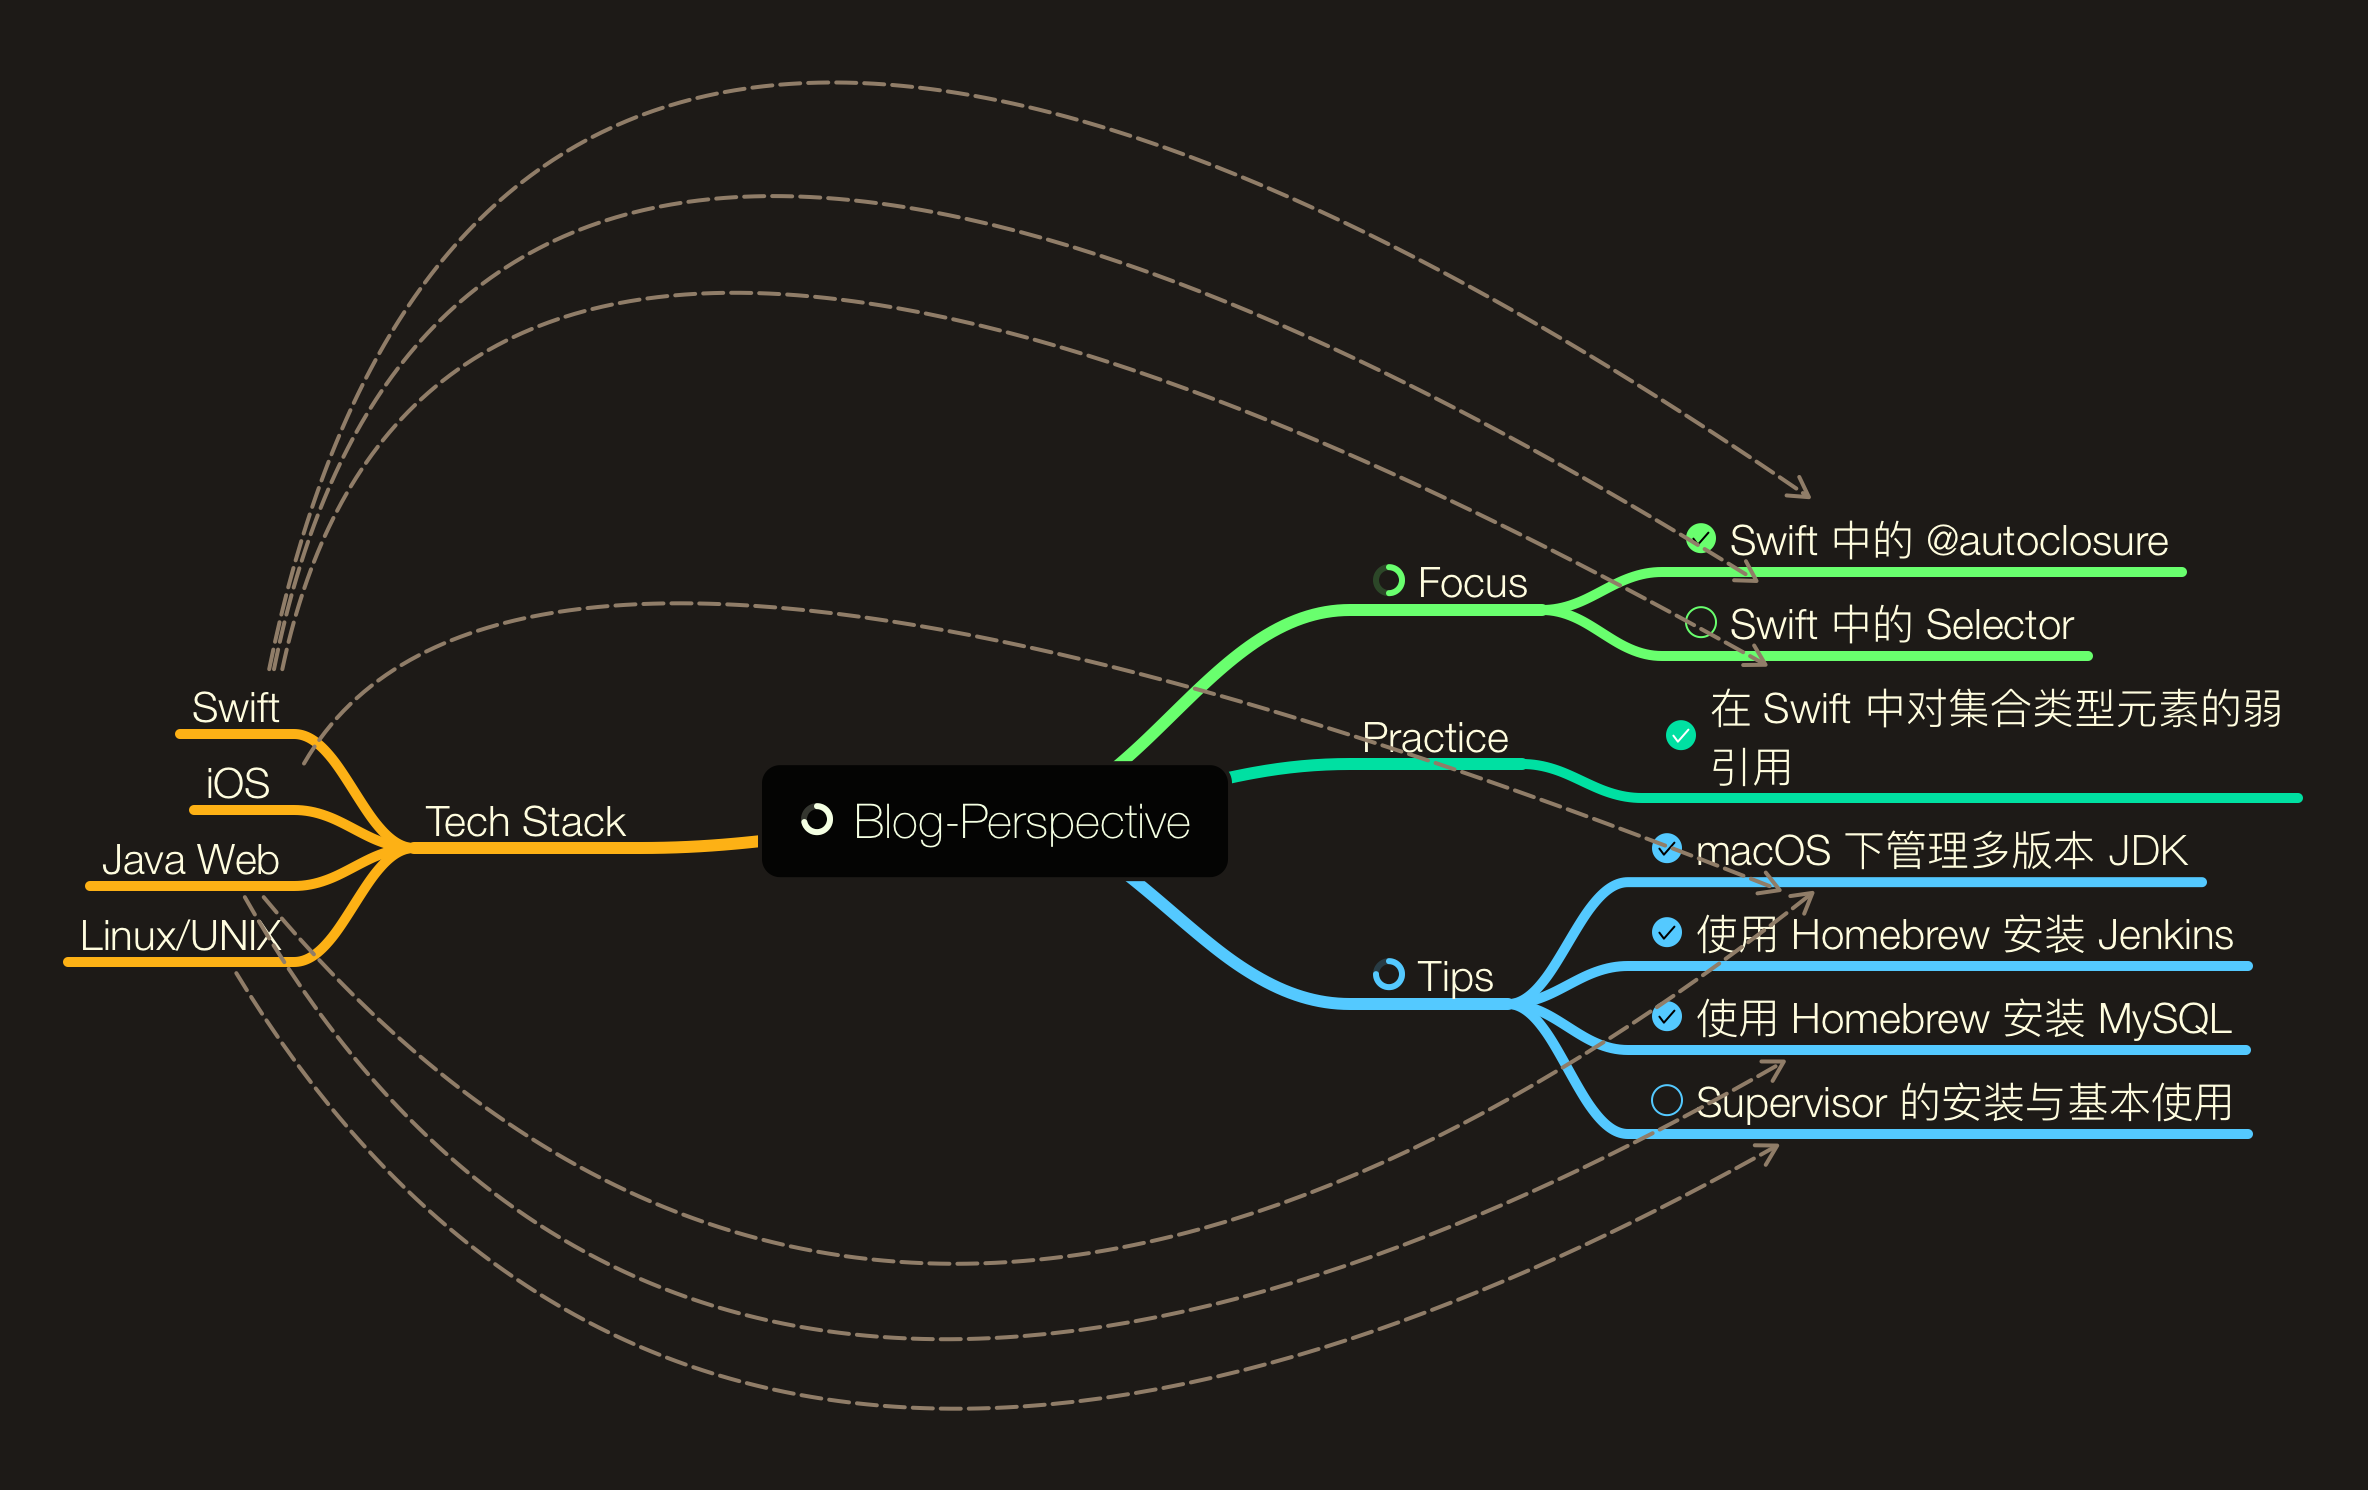
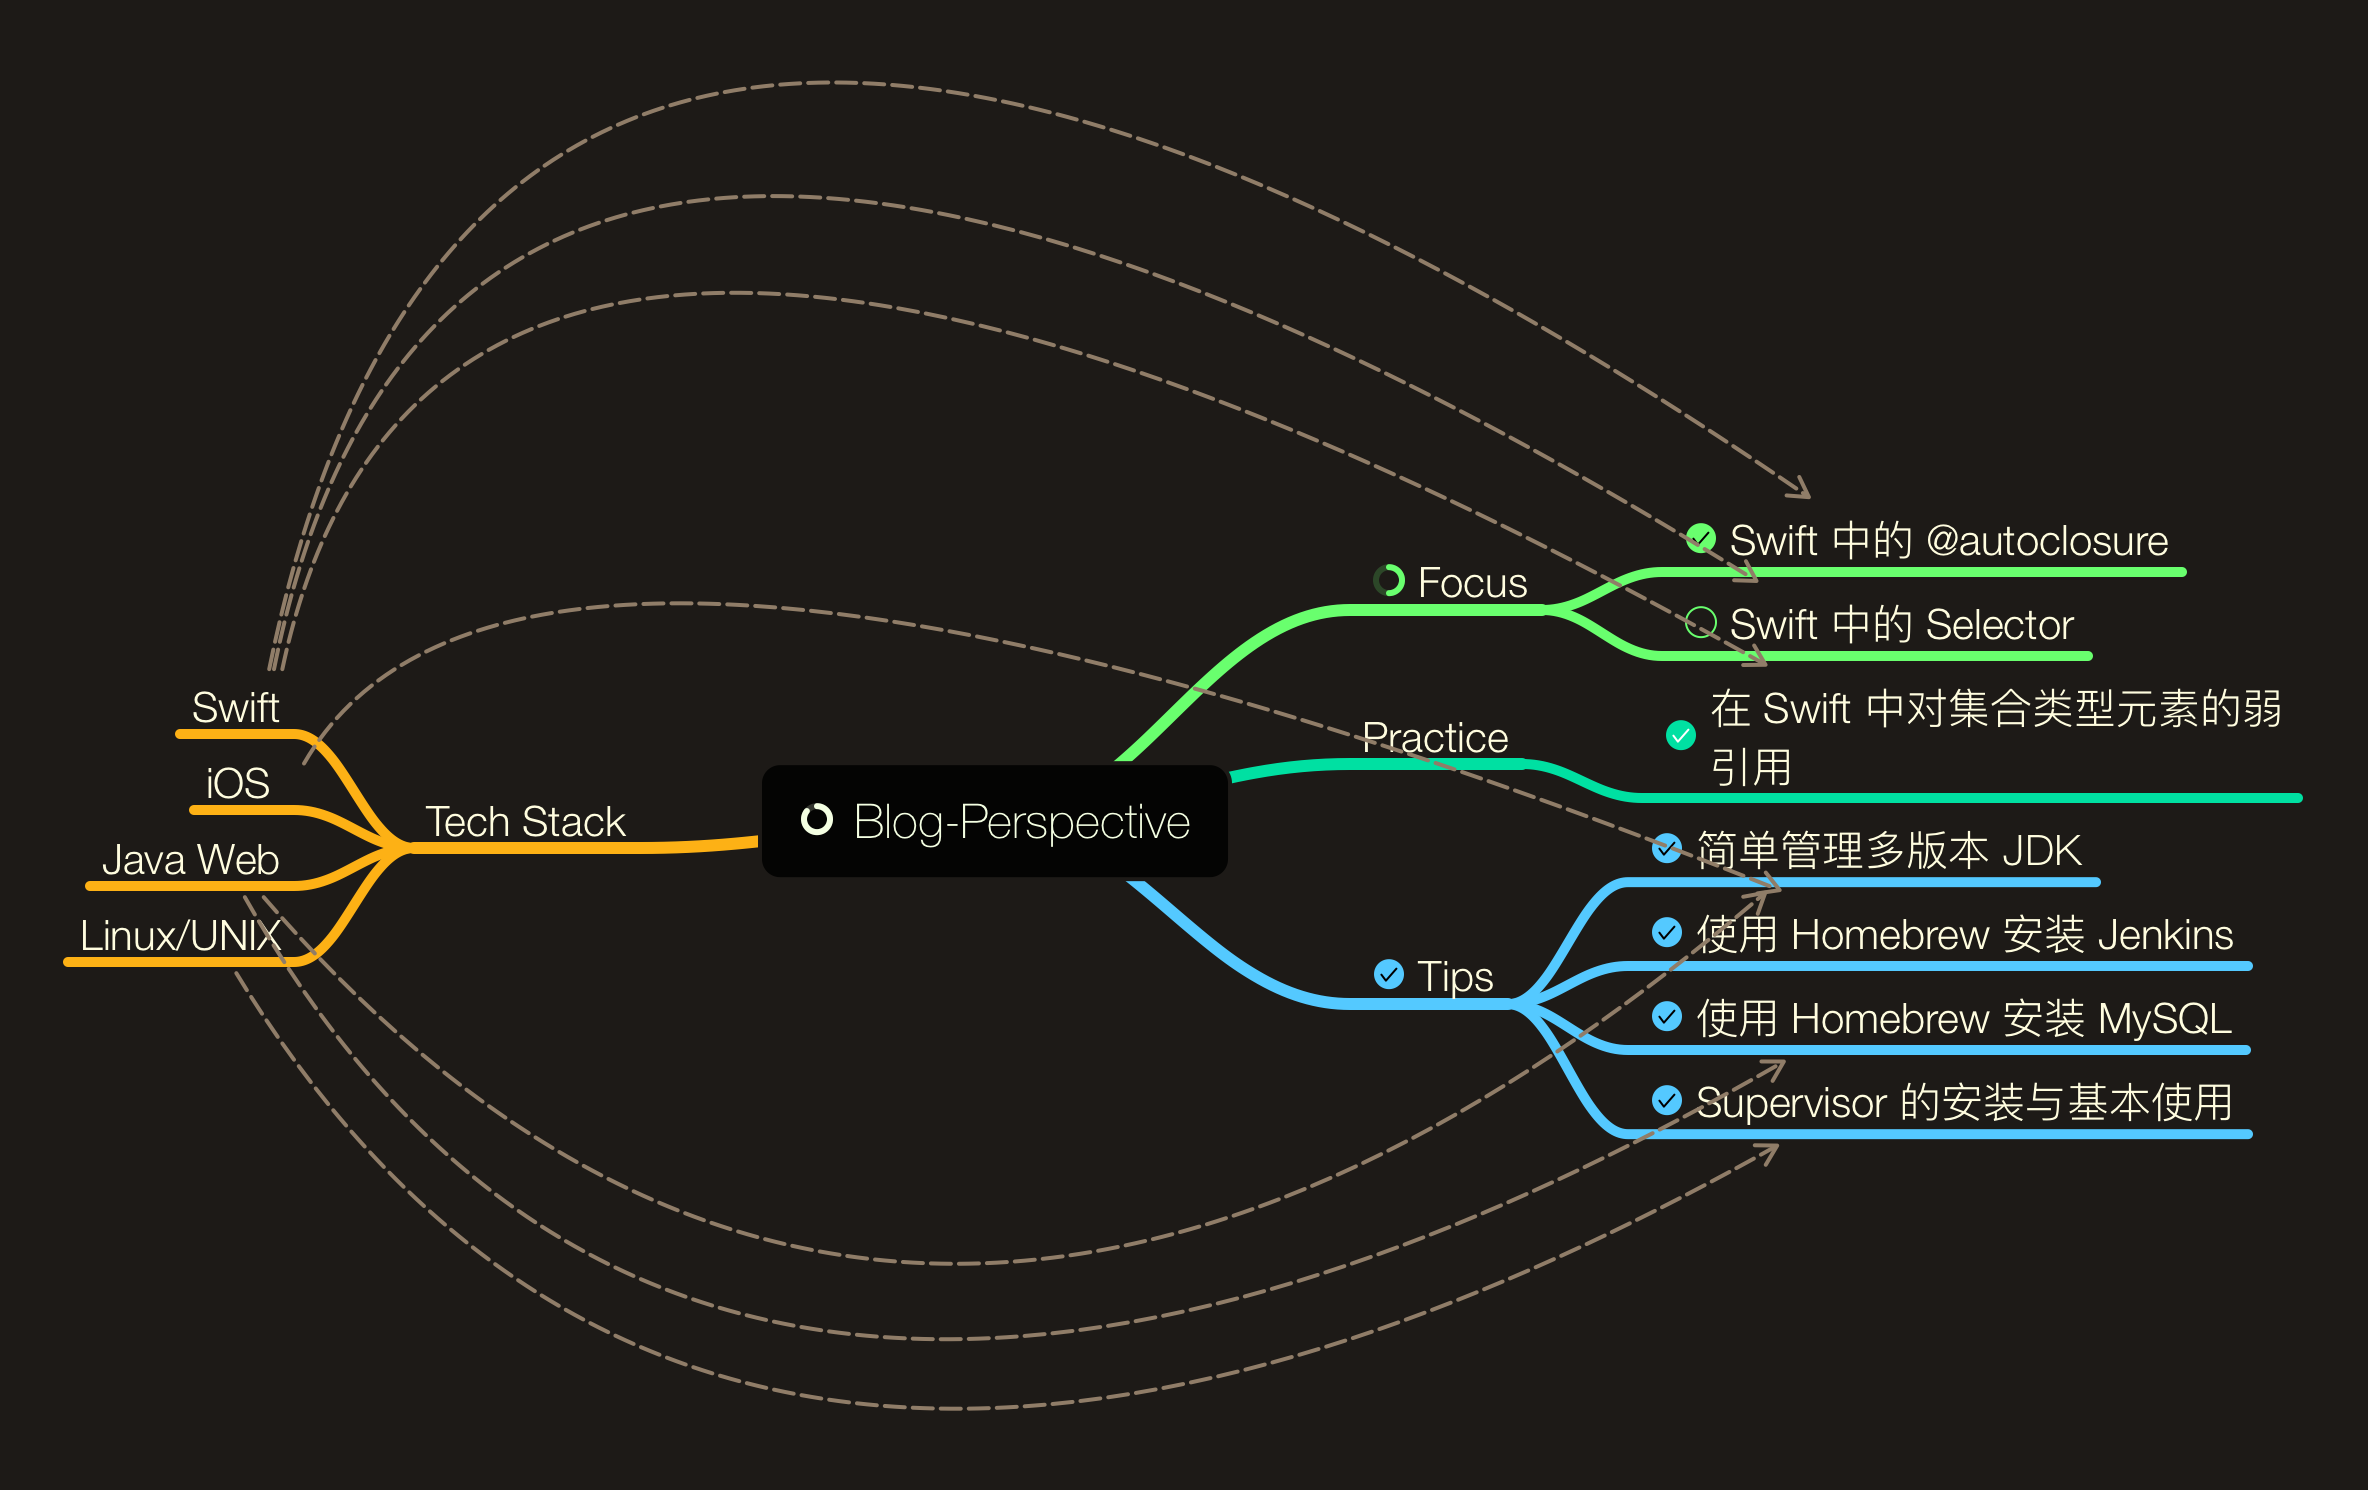
Finished Supervisor & Update

diff --git a/Posts/Tips/Supervisor/README.md b/Posts/Tips/Supervisor/README.md
@@ -1,13 +1,16 @@
-# Tips - Supervisor 安装与基本使用
+# Tips - Supervisor 的安装与基本使用
 
 | Platform | Notes |
 |:-----:|:-----:|
 | macOS 10.13.4 | Supervisor 3.3.4 |
-| Cent OS 6.5 | Supervisor 2.1-9 |
 
-## Installation
+## Info
 
-### macOS
+Supervisor 是 Linux/UNIX 下的一个由 Python 编写的进程管理工具，可以很方便的用来启动、重启、关闭进程。
+
+## Solution
+
+### Installation
 
 - 使用 HomeBrew 安装
 
@@ -15,28 +18,11 @@
 brew install supervisor
 ```
 
-### CentOS
+### Usage
 
-- 配置清华大学 epel 镜像
+- 安装完成后，可以在「/etc/supervisord.conf」中看到该默认示例，但并非所有配置项均必须定义，可根据自己需要进行配置。
 
-```shell
-# CentOS 7 请选择相应版本的 rpm 文件
-wget https://mirrors.tuna.tsinghua.edu.cn/epel/epel-release-latest-6.noarch.rpm
-
-rpm -ivh epel-release-latest-6.noarch.rpm
 ```
-
-- 使用 Yum 安装
-
-```shell
-yum install supervisor
-```
-
-## Usage
-
-- 可以在「/etc/supervisord.conf」中，看到该示例。
-
-```shell
 [supervisord]
 http_port=/var/tmp/supervisor.sock ; (default is to run a UNIX domain socket server)
 ;http_port=127.0.0.1:9001  ; (alternately, ip_address:port specifies AF_INET)
@@ -89,6 +75,47 @@ serverurl=unix:///var/tmp/supervisor.sock ; use a unix:// URL  for a unix socket
 ;logfile_backups=10          ; # of logfile backups (default 10)
 ```
 
-> 也欢迎您关注我的微博 [@萌面大道V](http://weibo.com/375975847)
+- 针对不同程序的配置可以单独放在不同的 `.ini` 文件中；
+- `PROGRAM_NAME` 替换为改命名，`COMMAND` 替换为需要保持运行的命令，注意可执行文件的路径，其他配置这里仅做演示，可根据上表自行配置。
+
+```ini
+; PROGRAM_NAME.ini
+[program:PROGRAM_NAME]
+command=COMMAND
+autostart=true
+autorestart=true
+startretries=5
+user=kingcos
+
+[supervisord]
+```
+
+- 在 `.conf` 文件中可以在 `files` 加入上述配置好的 `.ini`；
+- `INI_NAME` 即上述文件名。
+
+```conf
+; superviord.conf
+[include]
+files=INI_NAME.ini
+
+[supervisorctl]
+```
+
+- 运行，注意配置文件路径。
+
+```
+# superviord -c ${SUPERVISOR_CONFIG_PATH}
+superviord -c superviord.conf
+```
 
 ## Test
+
+- 运行后可以使用 `ps -A | grep PROGRAM_NAME` 来获取启动的进程；
+- 之后可以使用 `kill` 命令杀掉相应进程，在 `ps -A` 查看是否重启。
+
+> 也欢迎您关注我的微博 [@萌面大道V](http://weibo.com/375975847)
+
+## Extension
+
+- [Supervisor](https://supervisord.org)
+- macOS 下可使用 Launchctl 配置程序开机自启动（后续可能更新）

diff --git a/README.md b/README.md
@@ -21,7 +21,7 @@
 
 > Tips，即提示。笔者将三言两语简述解决方案，延伸部分供读者自行参考、查阅。
 
-- [macOS 下管理多版本 JDK](Posts/Tips/JDK_Multiple_Versions)
+- [简单管理多版本 JDK](Posts/Tips/JDK_Multiple_Versions)
 - [使用 Homebrew 安装 Jenkins](Posts/Tips/Jenkins_by_Homebrew)
 - [使用 Homebrew 安装 MySQL](Posts/Tips/MySQL_by_Homebrew)
 - [Supervisor 的安装与基本使用](Posts/Tips/Supervisor)

diff --git a/Posts/Tips/JDK_Multiple_Versions/README.md b/Posts/Tips/JDK_Multiple_Versions/README.md
@@ -1,4 +1,4 @@
-# Tips - macOS 下管理多版本 JDK
+# Tips - 简单管理多版本 JDK
 
 | Platform | Notes |
 |:-----:|:-----:|
